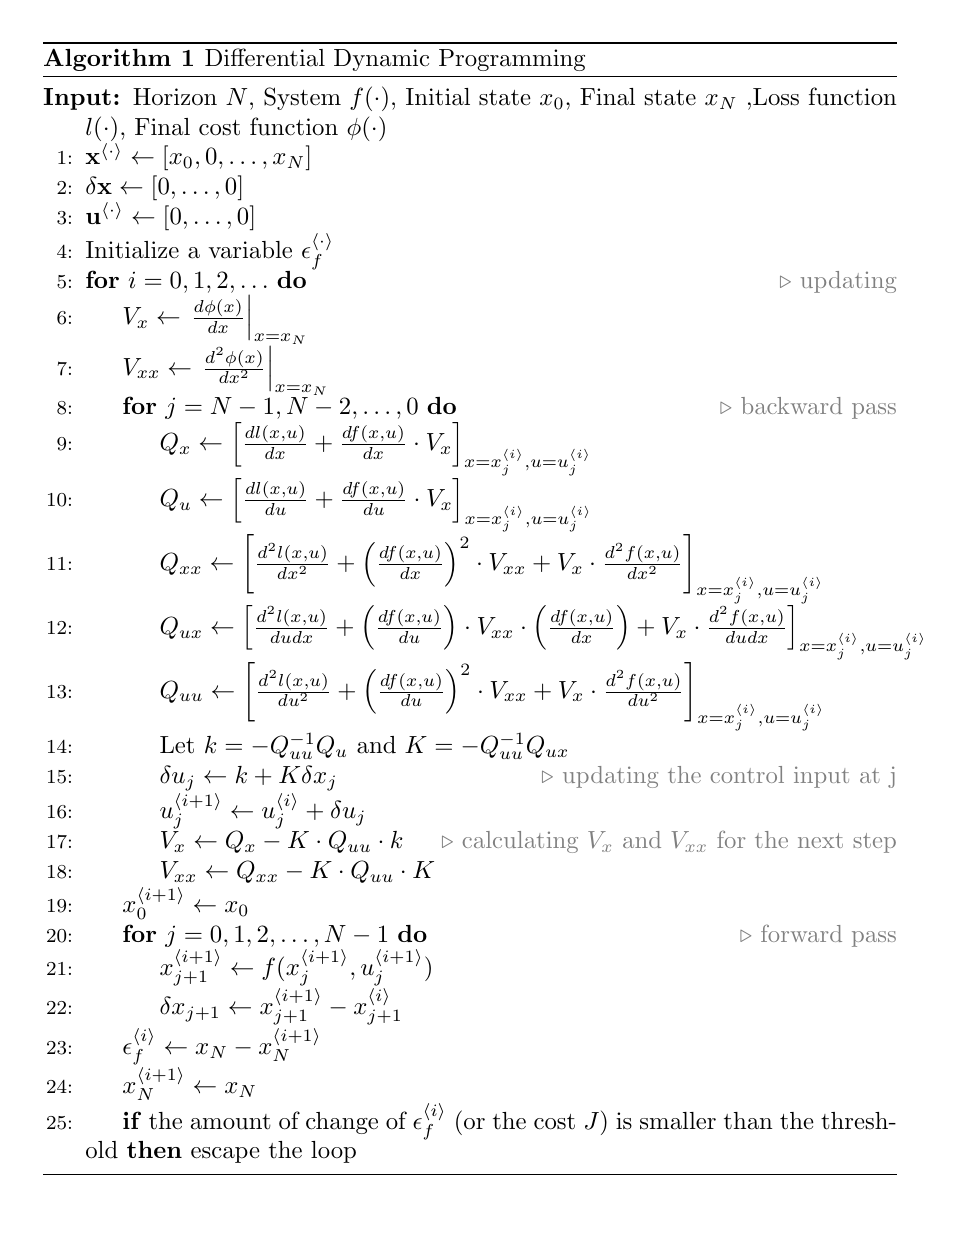
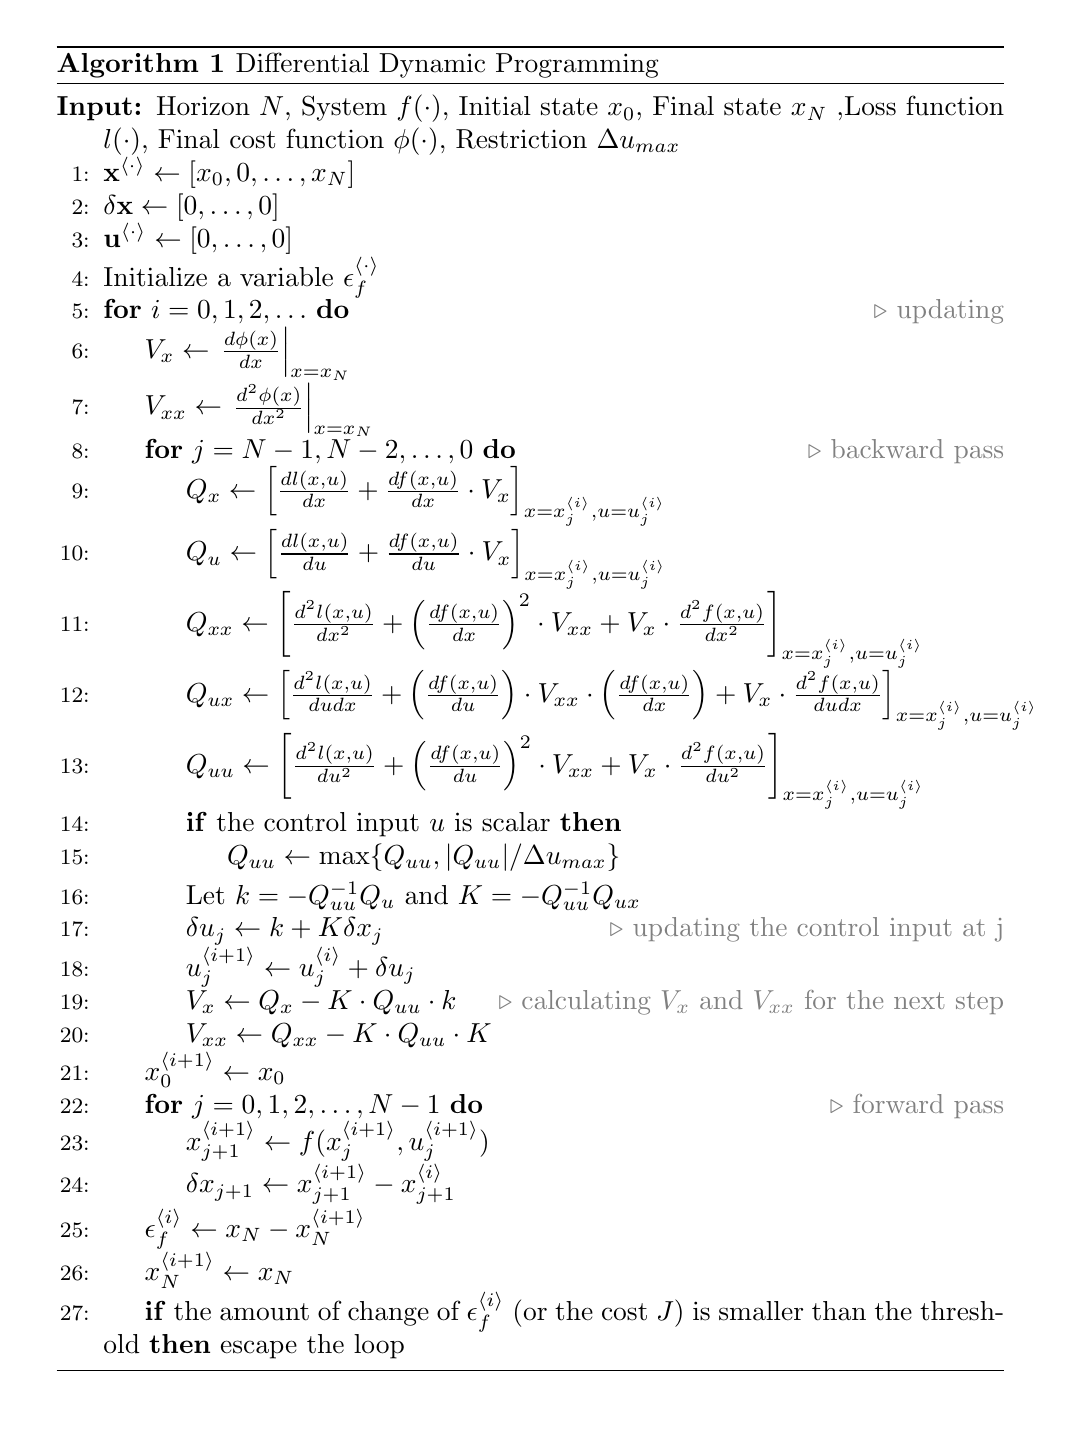
Added dumax

diff --git a/main.py b/main.py
@@ -4,7 +4,7 @@ import matplotlib.pyplot as plt
 np.random.seed(0)
 
 class System:
-    def __init__(self, loss, horizon, sys, x0, dloss, dsys):
+    def __init__(self, loss, horizon, sys, x0, dloss, dsys, dumax=0.6):
         self.loss = loss
         self.horizon = horizon
         self.dloss = dloss
@@ -17,6 +17,7 @@ class System:
         self.ks = np.zeros(horizon-1)
         self.Ks = np.zeros(horizon-1)
         self.sum_count = 0
+        self.dumax = dumax
 
     def forward(self):
         # Original implementation
@@ -62,8 +63,8 @@ class System:
             
             self.Quu = Quu
 
-            # k = -Qu/(Quu+1e-10)
-            # K = -Qux/(Quu+1e-10)
+            # This system has a scalar input. Always be the restriction.
+            Quu = max(Quu, abs(Quu)/self.dumax)
             k = -Qu/Quu
             K = -Qux/Quu
 
@@ -115,12 +116,9 @@ def dsystem(target, x, u):
 
 
 if __name__ == "__main__":
-    sys1 = System(loss, 6, system, 1, dloss, dsystem)
-    sys2 = System(loss, 6, system, 1, dloss, dsystem)
+    sys2 = System(loss, 6, system, 1.02, dloss, dsystem)
     states = []
     for i in range(10):
-        sys1.forward()
-
         sys2.backward()
         sys2.forward()
         print('ks: ',sys2.ks)
@@ -131,5 +129,4 @@ if __name__ == "__main__":
     plt.plot(states[0])
     plt.plot(states[1])
     plt.plot(states[2])
-    plt.plot(sys1.states)
     plt.show()

diff --git a/readme.md b/readme.md
@@ -9,9 +9,9 @@ matplotlib, numpy
 `
 
 ![pseudocode](./pcode.png)
-## Gallery
-![Plots](Figure_5.png)
 ## References
 [Constrained Differential Dynamic Programming Revisited](https://arxiv.org/abs/2005.00985)
 
 [Control-Limited Differential Dynamic Programming](https://homes.cs.washington.edu/~todorov/papers/TassaICRA14.pdf)
+
+[The Application Of Optimal Control Methodology To Nonlinear Programming Problems](https://link.springer.com/article/10.1007/BF01584253)
